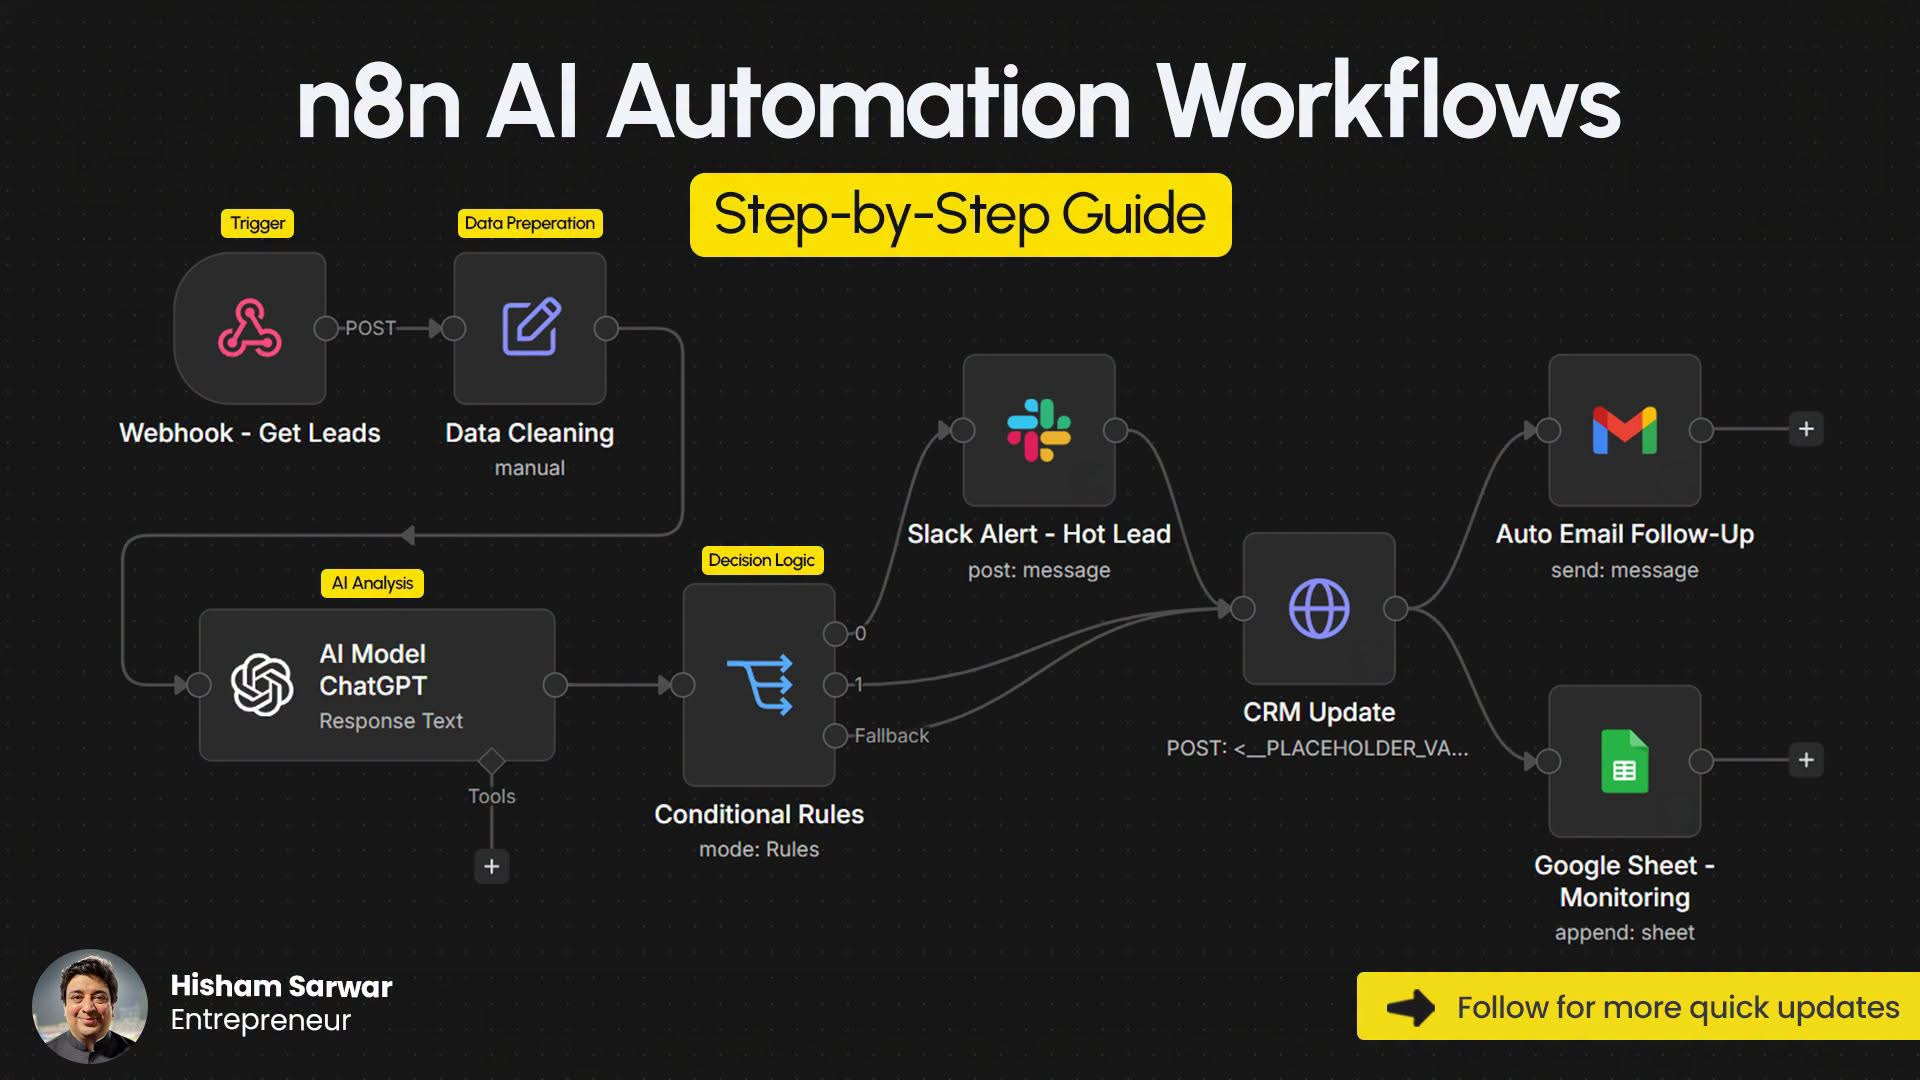
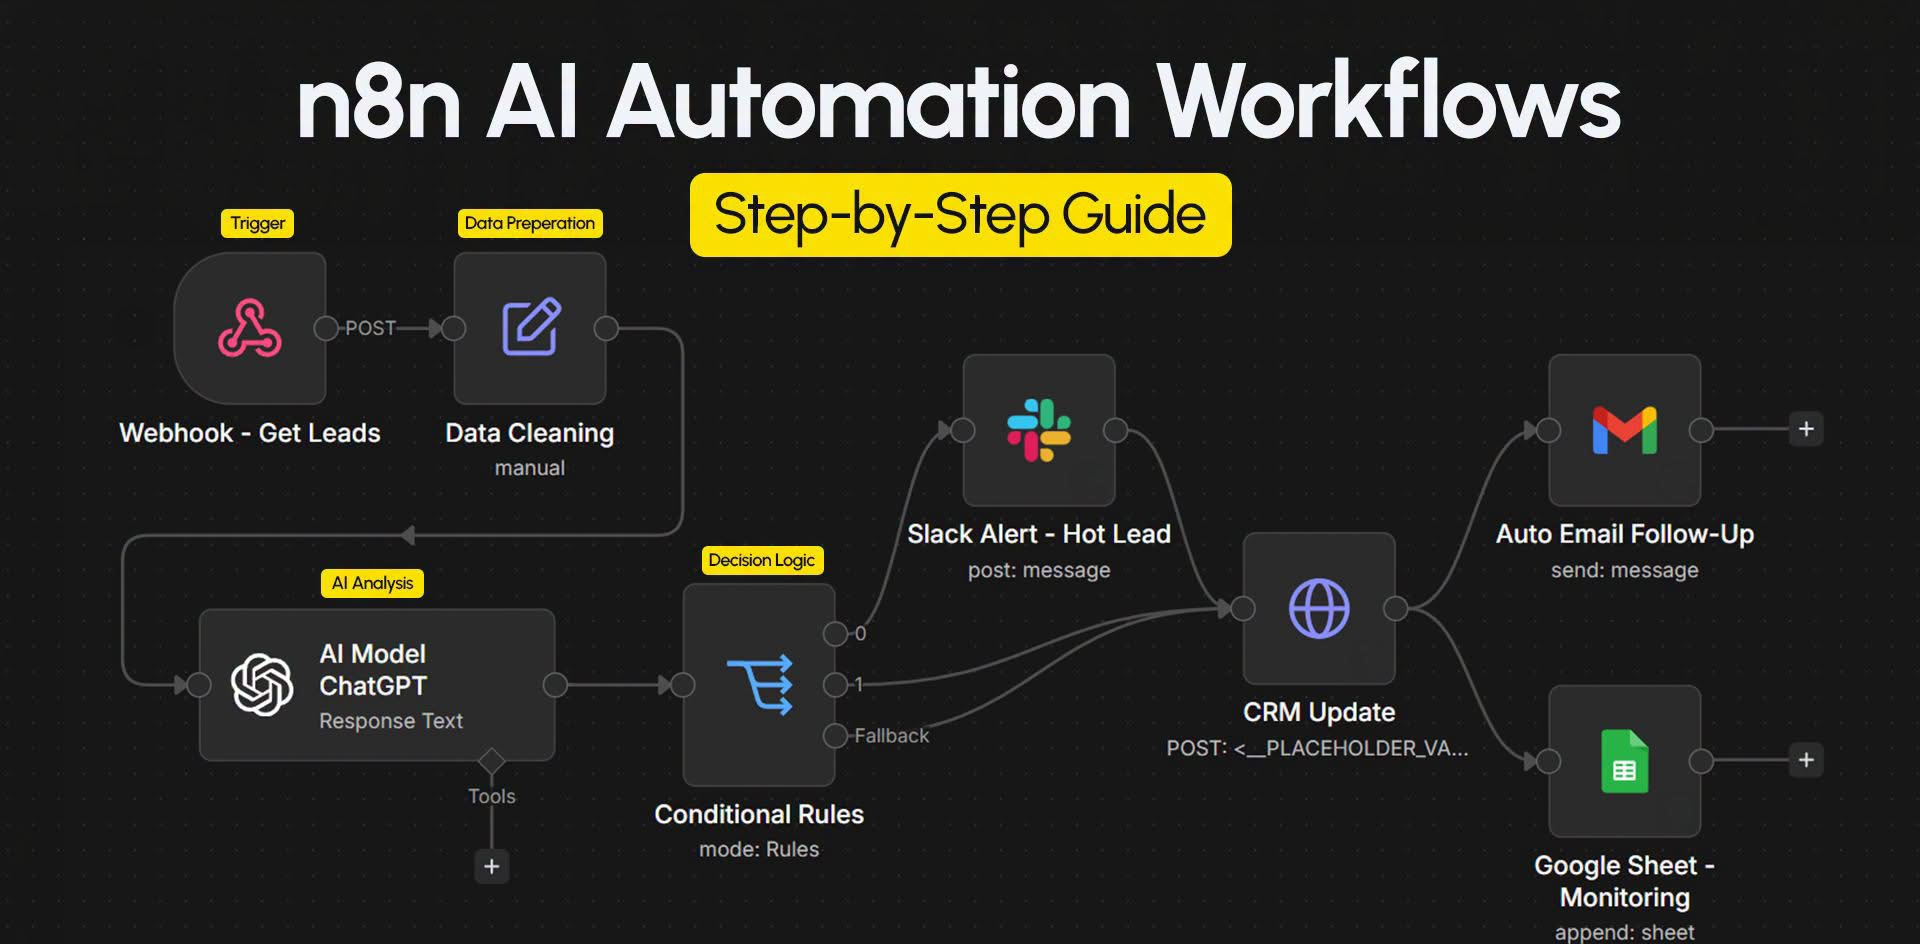
Crop workflow reference footer

diff --git a/src/RestoredContent.jsx b/src/RestoredContent.jsx
@@ -28,7 +28,7 @@ export function WorkflowGallery() {
         <figcaption className="p-5"><h4 className="font-semibold">Appointment routing &amp; reminders</h4><p className="mt-2 text-sm leading-6 text-[#52615c]">Practice workflow reference connecting routing, calendars, notifications and follow-up actions.</p><a href="/images/appointment-workflow-reference.jpeg" target="_blank" rel="noreferrer" aria-label="View full-size Appointment routing and reminders workflow" className="mt-3 inline-block text-sm font-semibold underline underline-offset-4">View full-size workflow ↗</a></figcaption>
       </figure>
       <figure className="overflow-hidden rounded-2xl border border-[#172321]/10">
-        <a href="/images/ai-lead-routing-reference.jpeg" target="_blank" rel="noreferrer" aria-label="Open AI lead-routing reference at full size"><img src="/images/ai-lead-routing-reference.jpeg" alt="n8n AI lead-routing guide credited to Hisham Sarwar, showing webhook input, preparation, AI analysis, conditional routing, Slack, CRM, Gmail and Google Sheets." width="1920" height="1080" loading="lazy" className="aspect-[16/10] w-full bg-[#202020] object-contain"/></a>
+        <a href="/images/ai-lead-routing-reference.jpeg" target="_blank" rel="noreferrer" aria-label="Open AI lead-routing reference at full size"><img src="/images/ai-lead-routing-reference.jpeg" alt="n8n AI lead-routing guide credited to Hisham Sarwar, showing webhook input, preparation, AI analysis, conditional routing, Slack, CRM, Gmail and Google Sheets." width="1920" height="944" loading="lazy" className="aspect-[1920/944] w-full bg-[#202020] object-contain"/></a>
         <figcaption className="p-5"><h4 className="font-semibold">AI lead routing — workflow reference</h4><p className="mt-2 text-sm leading-6 text-[#52615c]">A reference for exploring AI analysis, decision logic and connected business tools. Graphic credit: Hisham Sarwar.</p><a href="/images/ai-lead-routing-reference.jpeg" target="_blank" rel="noreferrer" aria-label="View full-size AI lead routing workflow" className="mt-3 inline-block text-sm font-semibold underline underline-offset-4">View full-size reference ↗</a></figcaption>
       </figure>
 
